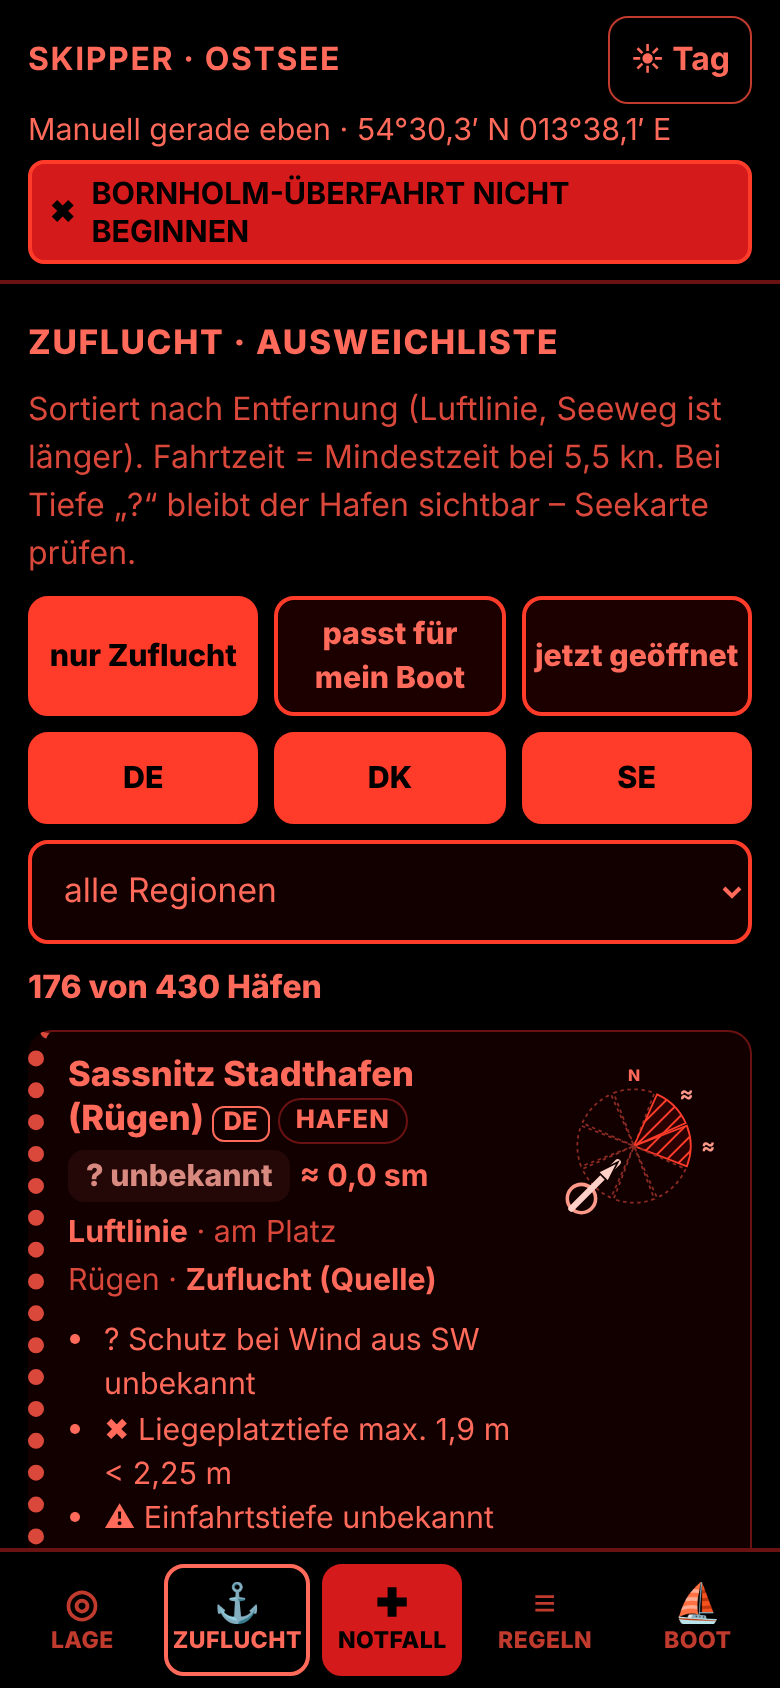
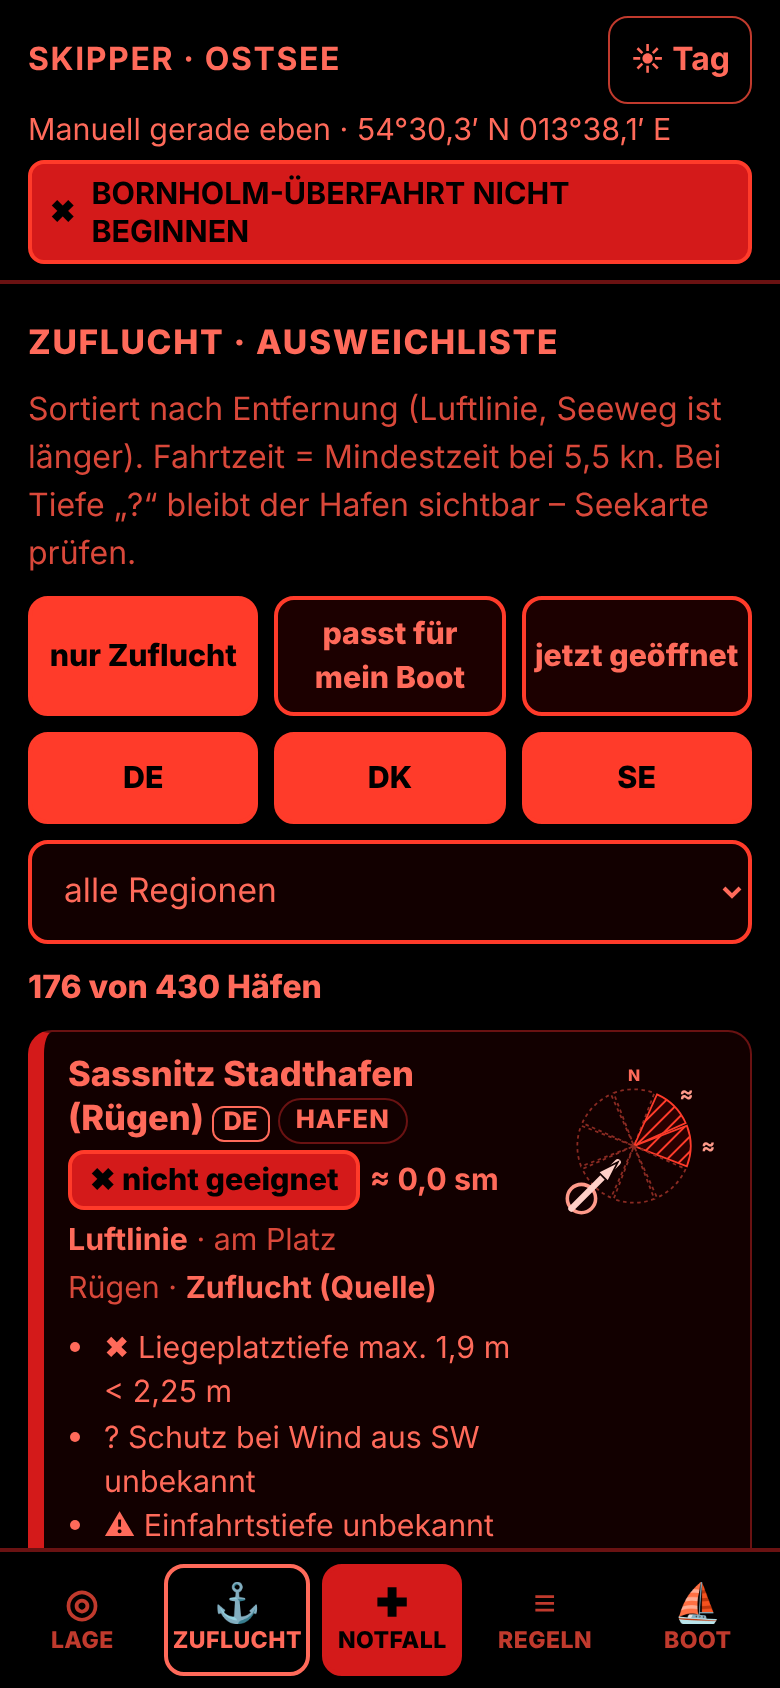
Fix status ranking (r > n > y > g) and unverified bridge heights
Known red reasons are no longer hidden by "unknown"; bridges with
unverified clearance are never green. Add tests 37/38, rebuild PDF.

Claude-Session: https://claude.ai/code/session_01FmLFmaGPa6vcKToF8ppaum

Changed region(s): [[0.0308, 0.6161, 0.6462, 0.9242]]

diff --git a/tests/logic.test.js b/tests/logic.test.js
@@ -84,14 +84,14 @@ const NOW = Date.UTC(2026, 6, 15, 9, 0); // 15.07.2026 11:00 MESZ: fixed clock, 
   }
   // 4
   {
-    const p = await posOf('de-heiligenhafen-marina');
+    const p = await posOf('de-barhoeft');
     const st = { ...base, pos: p, dir: 'W', windTrue: 5, gust: 8 };
     const n = await E({ ...st, sicht: 'nebel' }), g = await E({ ...st, gewitter: true }), c = await E(st);
     check('4  Nebel -> overall mind. gelb; Gewitter -> mind. gelb; Kontrolle grün', ['y', 'r'].includes(n.overall.level) && ['y', 'r'].includes(g.overall.level) && c.overall.level === 'g' && /Radar\/AIS/.test(n.general.text) && /Hafen vorher erreichen/.test(g.general.text), JSON.stringify([n.overall.level, g.overall.level, c.overall.level]));
   }
   // 5
   {
-    const p = await posOf('de-heiligenhafen-marina');
+    const p = await posOf('de-barhoeft');
     const r = {};
     for (const v of [0, -60, -100, 100, 150]) r[v] = await E({ ...base, pos: p, dir: 'W', windTrue: 5, gust: 8, pegel: v });
     const ok = r[0].pegel === null && r[-60].pegel && r[-60].pegel.level === 'i' && r[-60].info.some(i => i.id === 'pegel') && r[-60].overall.level === 'g'
@@ -187,8 +187,8 @@ const NOW = Date.UTC(2026, 6, 15, 9, 0); // 15.07.2026 11:00 MESZ: fixed clock, 
   {
     const w = await hs('dk-klintholm-havn', { ...base, dir: 'W', windTrue: 10, gust: 12 });
     const sw = await hs('dk-klintholm-havn', { ...base, dir: 'SW', windTrue: 10, gust: 12 });
-    const n = await hs('de-rerik', { ...base, dir: 'N', windTrue: 10, gust: 12 });
-    check('14 Windschutz: Klintholm W nicht rot (full); SW gelb (part); Rerik N -> n "Schutz unbekannt"', w.level !== 'r' && item(w, 'prot')?.level === 'g' && item(sw, 'prot')?.level === 'y' && sw.level !== 'g' && n.level === 'n' && has(n, /Schutz bei Wind aus N unbekannt/), JSON.stringify([w.level, sw.level, n.level, n.reasons]));
+    const n = await hs('de-rerik', { ...base, dir: 'N', windTrue: 10, gust: 12, boat: { draft: 1.62 } });
+    check('14 Windschutz: Klintholm W nicht rot (full); SW gelb (part); Rerik N (Flachkiel) -> Gesamtlevel n "Schutz unbekannt"', w.level !== 'r' && item(w, 'prot')?.level === 'g' && item(sw, 'prot')?.level === 'y' && sw.level !== 'g' && n.level === 'n' && has(n, /Schutz bei Wind aus N unbekannt/), JSON.stringify([w.level, sw.level, n.level, n.reasons]));
   }
   // 15
   {
@@ -212,20 +212,20 @@ const NOW = Date.UTC(2026, 6, 15, 9, 0); // 15.07.2026 11:00 MESZ: fixed clock, 
       const bad = [];
       ids.forEach(id => ['N', 'NE', 'E', 'SE', 'S', 'SW', 'W', 'NW'].forEach(d => {
         const s = SKIPPER.harborStatus(SKIPPER.DATA.find(h => h.id === id), Object.assign({}, base, { dir: d, windTrue: 5, gust: 8 }));
-        if (s.level !== 'n' || !s.items.some(i => i.text === 'Tiefe unbekannt')) bad.push([id, d, s.level]);
+        if (s.level === 'g' || !s.items.some(i => i.text === 'Tiefe unbekannt') || (s.level !== 'n' && !s.items.some(i => !i.noLevel && i.level === 'r'))) bad.push([id, d, s.level]);
       }));
       return { n: ids.length, bad };
     }, base);
     const g = [];
     for (const d of DIRS) g.push((await hs('de-grossenbrode-kommunal', { ...base, dir: d, windTrue: 5, gust: 8 })).level);
-    check('17 Beide Tiefen unbekannt -> Level n, "Tiefe unbekannt", nie grün (alle 8 Richtungen, alle betroffenen Häfen)', r.n > 0 && r.bad.length === 0 && g.every(l => l === 'n'), JSON.stringify({ r, g }));
+    check('17 Beide Tiefen unbekannt -> Level n (oder r, wenn ein roter Grund bekannt ist), "Tiefe unbekannt", nie grün (alle 8 Richtungen, alle betroffenen Häfen)', r.n > 0 && r.bad.length === 0 && g.every(l => l === 'n'), JSON.stringify({ r, g }));
   }
   // 18
   {
     const st = { ...base, dir: 'SW', windTrue: 8, gust: 10 };
     const a = await hs('de-rerik', st);
     const b = await hs('de-rerik', { ...st, boat: { draft: 1.62 } });
-    check('18 maxDraft Rerik (1,8): Tiefgang 1,95 -> rot "max. Tiefgang"; Flachkiel 1,62 -> kein maxDraft-Grund', item(a, 'depth', 'r') && /max\. Tiefgang/.test(item(a, 'depth', 'r').text) && !has(b, /max\. Tiefgang/), JSON.stringify([a.reasons, b.reasons]));
+    check('18 maxDraft Rerik (1,8): Tiefgang 1,95 -> Gesamtlevel rot "max. Tiefgang"; Flachkiel 1,62 -> kein maxDraft-Grund', a.level === 'r' && item(a, 'depth', 'r') && /max\. Tiefgang/.test(item(a, 'depth', 'r').text) && !has(b, /max\. Tiefgang/), JSON.stringify([a.reasons, b.reasons]));
   }
   // 19
   {
@@ -289,6 +289,25 @@ const NOW = Date.UTC(2026, 6, 15, 9, 0); // 15.07.2026 11:00 MESZ: fixed clock, 
       return bad;
     }, base);
     check('24 Nie "immer grün": jeder Hafen bei Böen 40 in jeder Richtung nicht grün', r.length === 0, JSON.stringify(r.slice(0, 5)));
+  }
+
+  // 37 / 38 (Abnahme-Korrekturen)
+  {
+    const st = { ...base, dir: 'N', windTrue: 8, gust: 10 };
+    const a = await hs('de-rerik', st), b = await hs('de-rerik', { ...st, boat: { draft: 1.62 } });
+    const o = await ev((base) => { const bad = []; SKIPPER.DATA.forEach(h => ['N','NE','E','SE','S','SW','W','NW'].forEach(d => { const s = SKIPPER.harborStatus(h, Object.assign({}, base, { dir: d, windTrue: 8, gust: 10 })); if (s.items.some(i => !i.noLevel && i.level === 'r') && s.level !== 'r') bad.push([h.id, d, s.level]); })); return bad; }, base);
+    check('37 Rangfolge r > n > y > g: Rerik N Default -> r; mit Flachkiel -> n; nirgends verdeckt n ein rotes Item', a.level === 'r' && b.level === 'n' && o.length === 0, JSON.stringify([a.level, b.level, o.slice(0, 3)]));
+  }
+  {
+    const fs = await ev(() => SKIPPER.BRIDGES.find(b => b.id === 'de-bro-fehmarnsund'));
+    const p = { lat: fs.lat - 3 / 60, lon: fs.lon };
+    const a = await E({ ...base, pos: p, dir: 'W', windTrue: 8, gust: 10 });
+    const g = gate(a, 'bridge-de-bro-fehmarnsund');
+    const syn = await ev(() => {
+      const mk = (h, v) => Object.assign({}, SKIPPER.BRIDGES.find(b => b.id === 'dk-bro-storeb-ltsbroen-vestbroen'), { clearanceClosed_m: h, verified: { clearance: v } });
+      return { ok: SKIPPER.bridgeCheck(mk(30, true), undefined, 0), unv: SKIPPER.bridgeCheck(mk(30, false), undefined, 0), near: SKIPPER.bridgeCheck(mk(20, false), undefined, 0) };
+    });
+    check('38 Ungeprüfte Brücke: Fehmarnsund 22 m, Mast 18,5 -> Gate gelb "ungeprüft" + "Reserve 2,5 m"; 30 m geprüft -> g; 30 m ungeprüft -> nur Info, nie g', g?.level === 'y' && /ungeprüft/.test(g.text) && /Reserve (nur )?2,5 m/.test(g.text) && syn.ok.level === 'g' && syn.unv.level === 'i' && syn.near.level === 'y', JSON.stringify({ g, syn: [syn.ok.level, syn.unv.level, syn.near.level] }));
   }
 
   // ---------- Liste / Empfehlung / Rechnen ----------

diff --git a/index.html b/index.html
@@ -694,6 +694,11 @@ function bridgeCheck(b,boat,pegel){
     else{
       var frei=closed-Math.max(0,p),res=frei-N.mastNeed;
       if(lt(frei,N.mastNeed))r={level:'r',text:'Mast '+fm(bt.mast)+' m passt nicht unter '+b.name+' ('+fm(closed)+' m '+ref+(p>0?', Pegel +'+Math.round(p*100)+' cm abgezogen':'')+'; nötig '+fm(N.mastNeed)+' m inkl. Abstand)'};
+      else if(!(b.verified&&b.verified.clearance===true)){
+        var rs=Math.round(res*100)/100;
+        if(rs<3)r={level:'y',text:'Höhe ungeprüft, Reserve nur '+fm(rs)+' m – Seekarte/Bekanntmachung prüfen ('+b.name+')',reserve:rs,unverified:true};
+        else r={level:'i',text:'Höhe ungeprüft ('+b.name+', Reserve '+fm(rs)+' m)',reserve:rs,unverified:true};
+      }
       else r={level:'g',text:'passt unter '+b.name+' (Reserve '+fm(res)+' m)',reserve:Math.round(res*100)/100};
     }
   }else{
@@ -738,7 +743,7 @@ function countryOf(pos){
    ===================================================================== */
 var RANK={g:1,y:2,r:3};
 function worst(a,b){return (RANK[b]||0)>(RANK[a]||0)?b:a;}
-var RANK2={g:1,y:2,r:3,n:4};   // for harbours: unknown ("n") outranks everything – never plan on unknown data
+var RANK2={g:1,y:2,n:3,r:4};   // harbours: r > n > y > g (a known red reason is never hidden by "unknown")
 
 /* BSH label for a water level (cm) taken from radio.json (DE water_level) */
 function pegelLabel(p){
@@ -1767,7 +1772,7 @@ function buildPrint(){
   p+='<section class="pp"><h1>Brücken</h1><div class="sub">Höhe geschlossen laut Datenbestand. Spalte „Mast '+fm(D.mast)+' m?“: Default-Profil (Mast '+fm(D.mast)+' m + Sicherheitsabstand '+fm(D.bridgeMargin)+' m), Pegel 0.</div>';
   p+='<table><colgroup><col style="width:38mm"><col style="width:7mm"><col style="width:11mm"><col style="width:20mm"><col style="width:68mm"><col style="width:16mm"><col style="width:34mm"></colgroup><thead><tr><th>Name</th><th>Land</th><th>Art</th><th>Höhe</th><th>Öffnung</th><th>VHF</th><th>Mast '+fm(D.mast)+' m?</th></tr></thead><tbody>';
   BRIDGES.slice().sort(function(a,b){return b.lat-a.lat;}).forEach(function(b){
-    var c=bridgeCheck(b,D,0),m=c.level==='g'?'✔ passt (Reserve '+fm(c.reserve)+' m)':c.level==='r'?'✖ passt nicht':c.level==='i'?'passt, Öffnung nötig?':'? '+(b.clearanceClosed_m==null?'Höhe unbekannt':'Öffnung nötig');
+    var c=bridgeCheck(b,D,0),m=c.unverified?'? ungeprüft (Reserve '+fm(c.reserve)+' m)':c.level==='g'?'✔ passt (Reserve '+fm(c.reserve)+' m)':c.level==='r'?'✖ passt nicht':c.level==='i'?'passt, Öffnung nötig?':'? '+(b.clearanceClosed_m==null?'Höhe unbekannt':'Öffnung nötig');
     p+='<tr><td><b>'+esc(b.name)+'</b></td><td>'+esc(b.country)+'</td><td>'+esc(b.kind)+'</td><td>'+(b.clearanceClosed_m!=null?fm(b.clearanceClosed_m)+' m':'?')+'<br>'+esc(b.clearanceRef||'')+'</td><td>'+esc(b.opening||'–')+(c.note?'<br><i><b>Hinweis:</b> '+esc(c.note)+'</i>':'')+'</td><td>'+esc(b.vhf||'?')+'</td><td>'+m+(c.note&&c.level!=='y'?'<br><span class="unv">Höhe/Einschränkung: siehe Hinweis</span>':'')+'</td></tr>';
   });
   p+='</tbody></table></section>';

diff --git a/src/app.html b/src/app.html
@@ -688,6 +688,11 @@ function bridgeCheck(b,boat,pegel){
     else{
       var frei=closed-Math.max(0,p),res=frei-N.mastNeed;
       if(lt(frei,N.mastNeed))r={level:'r',text:'Mast '+fm(bt.mast)+' m passt nicht unter '+b.name+' ('+fm(closed)+' m '+ref+(p>0?', Pegel +'+Math.round(p*100)+' cm abgezogen':'')+'; nötig '+fm(N.mastNeed)+' m inkl. Abstand)'};
+      else if(!(b.verified&&b.verified.clearance===true)){
+        var rs=Math.round(res*100)/100;
+        if(rs<3)r={level:'y',text:'Höhe ungeprüft, Reserve nur '+fm(rs)+' m – Seekarte/Bekanntmachung prüfen ('+b.name+')',reserve:rs,unverified:true};
+        else r={level:'i',text:'Höhe ungeprüft ('+b.name+', Reserve '+fm(rs)+' m)',reserve:rs,unverified:true};
+      }
       else r={level:'g',text:'passt unter '+b.name+' (Reserve '+fm(res)+' m)',reserve:Math.round(res*100)/100};
     }
   }else{
@@ -732,7 +737,7 @@ function countryOf(pos){
    ===================================================================== */
 var RANK={g:1,y:2,r:3};
 function worst(a,b){return (RANK[b]||0)>(RANK[a]||0)?b:a;}
-var RANK2={g:1,y:2,r:3,n:4};   // for harbours: unknown ("n") outranks everything – never plan on unknown data
+var RANK2={g:1,y:2,n:3,r:4};   // harbours: r > n > y > g (a known red reason is never hidden by "unknown")
 
 /* BSH label for a water level (cm) taken from radio.json (DE water_level) */
 function pegelLabel(p){
@@ -1761,7 +1766,7 @@ function buildPrint(){
   p+='<section class="pp"><h1>Brücken</h1><div class="sub">Höhe geschlossen laut Datenbestand. Spalte „Mast '+fm(D.mast)+' m?“: Default-Profil (Mast '+fm(D.mast)+' m + Sicherheitsabstand '+fm(D.bridgeMargin)+' m), Pegel 0.</div>';
   p+='<table><colgroup><col style="width:38mm"><col style="width:7mm"><col style="width:11mm"><col style="width:20mm"><col style="width:68mm"><col style="width:16mm"><col style="width:34mm"></colgroup><thead><tr><th>Name</th><th>Land</th><th>Art</th><th>Höhe</th><th>Öffnung</th><th>VHF</th><th>Mast '+fm(D.mast)+' m?</th></tr></thead><tbody>';
   BRIDGES.slice().sort(function(a,b){return b.lat-a.lat;}).forEach(function(b){
-    var c=bridgeCheck(b,D,0),m=c.level==='g'?'✔ passt (Reserve '+fm(c.reserve)+' m)':c.level==='r'?'✖ passt nicht':c.level==='i'?'passt, Öffnung nötig?':'? '+(b.clearanceClosed_m==null?'Höhe unbekannt':'Öffnung nötig');
+    var c=bridgeCheck(b,D,0),m=c.unverified?'? ungeprüft (Reserve '+fm(c.reserve)+' m)':c.level==='g'?'✔ passt (Reserve '+fm(c.reserve)+' m)':c.level==='r'?'✖ passt nicht':c.level==='i'?'passt, Öffnung nötig?':'? '+(b.clearanceClosed_m==null?'Höhe unbekannt':'Öffnung nötig');
     p+='<tr><td><b>'+esc(b.name)+'</b></td><td>'+esc(b.country)+'</td><td>'+esc(b.kind)+'</td><td>'+(b.clearanceClosed_m!=null?fm(b.clearanceClosed_m)+' m':'?')+'<br>'+esc(b.clearanceRef||'')+'</td><td>'+esc(b.opening||'–')+(c.note?'<br><i><b>Hinweis:</b> '+esc(c.note)+'</i>':'')+'</td><td>'+esc(b.vhf||'?')+'</td><td>'+m+(c.note&&c.level!=='y'?'<br><span class="unv">Höhe/Einschränkung: siehe Hinweis</span>':'')+'</td></tr>';
   });
   p+='</tbody></table></section>';

diff --git a/SPEC_v1.md b/SPEC_v1.md
@@ -147,6 +147,10 @@ Liefert `{level: g|y|r|n, items:[{level,text}], reasons, unverified, refugeLabel
 
 Kein Hafen ist „immer grün“ (Lehre §9). Fehlt die Windrichtung → n „Windrichtung wählen“.
 
+**Rangfolge (Abnahme-Korrektur 19.10.2026):** r > n > y > g. Ein bekannter roter Grund wird nie durch „unbekannt“ verdeckt.
+
+**Ungeprüfte Brückenhöhe (Abnahme-Korrektur):** `bridgeCheck` liefert bei `verified.clearance !== true` nie g. Reicht die Höhe rechnerisch, aber die Reserve ist < 3,0 m → y „Höhe ungeprüft, Reserve nur X m – Seekarte/Bekanntmachung prüfen“; Reserve ≥ 3,0 m → y „Höhe ungeprüft“ nur als Info-Item. Gilt in Gate (§4.4/4) und Hafenstatus (§4.5/6).
+
 ### 4.6 Liste und Empfehlung
 - `rank`: alle Häfen nach Entfernung (Haversine) mit Kurs (rwK, Grad) und ETA (`dist / speed`).
 - `recommend`: `green` = nächster Hafen mit Level g **und** `refugeLevel ∈ {belegt, plan, abgeleitet}`; `belegt` = nächster g mit `refugeLevel==='belegt'`; `far` wenn kein green < 20 sm; dann `fallback` = nächster Zuflucht-Hafen mit Level y.
@@ -230,6 +234,10 @@ Profil im Test = Default (Tiefgang 1,95, Zuschlag 0,3, Mast 18,5, Abstand 1,0, L
 34. PDF A4; Seite 1 enthält „MAYDAY“, „NAVTEX“, „Bremen“, „124 124“ oder „124124“, „JRCC“.
 35. PDF: jeder Hafen genau einmal, Spalten vollständig, je Gruppe lat absteigend, kein Gruppenkopf als letzte Zeile einer Seite.
 36. Keine Zahl in UI-Texten, die nicht aus `CONST`/Daten kommt: Regeln-Screen-Schwellen == `CONST` (Test liest DOM und vergleicht).
+
+**Nachträge aus der Abnahme**
+37. Rangfolge: `de-rerik` Wind N, Default-Profil → Level r (maxDraft rot schlägt „Schutz unbekannt“). `de-rerik` Wind N mit Flachkiel → n.
+38. Ungeprüfte Brücke: Position 3 sm von `de-bro-fehmarnsund` (22 m, clearance ungeprüft), Mast 18,5 → Gate y mit „ungeprüft“ und „Reserve 2,5 m“; nie g. Synthetische Brücke 30 m `verified.clearance:true` → kein Gate (nur Info).
 
 ## 10. Abnahme (durch Opus, nicht Teil des Baus)
 Tests selbst laufen lassen, alle Screenshots und PDF-Seiten ansehen, Stichprobe 15 Häfen gegen Quelle (Lotse-URL/Plan), Flugmodus-Test auf Honor 200 + Huawei-Tablet durch Christoph.

diff --git a/CHANGELOG.md b/CHANGELOG.md
@@ -11,3 +11,10 @@ Erstausgabe der Ostsee-App nach SPEC_v1.md, aufbauend auf Skipper-Assistent Sard
 - Hafenstatus mit Tiefe (Pegel, Surge), Ansteuerung, Seegang, Maßen, Saison, Zuflucht-Einstufung; unbekannte Daten sind nie grün.
 - Bootsprofil mit localStorage; Sonnenauf-/untergang (NOAA); Seegebiet und Land zur Position.
 - Bordkarte als PDF (Print-Stylesheet) und Akzeptanztests (§9, 36 Punkte).
+
+## v1.1 (19.10.2026) Abnahme-Korrekturen
+
+- Rangfolge im Hafenstatus jetzt r > n > y > g: ein bekannter roter Grund (z. B. max. Tiefgang) wird nicht mehr durch „unbekannt“ verdeckt.
+- Brücken mit ungeprüfter Höhe sind nie grün: Reserve < 3,0 m gelb („Höhe ungeprüft, Reserve nur X m“), sonst nur Info. Fehmarnsund wird bei Mast 18,5 m gelb.
+- PDF-Brückenseite zeigt bei ungeprüfter Höhe „ungeprüft“.
+- Tests 37 und 38 ergänzt.
